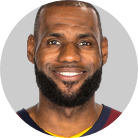
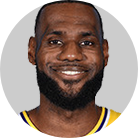
feat: Update LeBron’s color scheme for Lakers

diff --git a/src/colorMap.js b/src/colorMap.js
@@ -6,15 +6,15 @@ export default {
     rect: 'white',
   },
   lebron: {
-    line: '#ffbc00',
+    line: '#FDB927',
     circle: '#ff8100',
-    rectbg: '#77002c',
-    rect: '#ffbc00',
-    recttext: '#ffbc00',
+    rectbg: '#3C1A5C',
+    rect: '#FDB927',
+    recttext: '#FDB927',
     shapetext: '#3a0016',
-    rectempty: '#8b0048',
-    bgFallback: '#880037',
-    bg: 'linear-gradient(-1deg, #340015 14%, #880037 96%)',
+    rectempty: '#4B2173',
+    bgFallback: '#552583',
+    bg: 'linear-gradient(-1deg, #3C1A5C 14%, #552583 96%)',
   },
   harden: {
     line: '#e80039',
